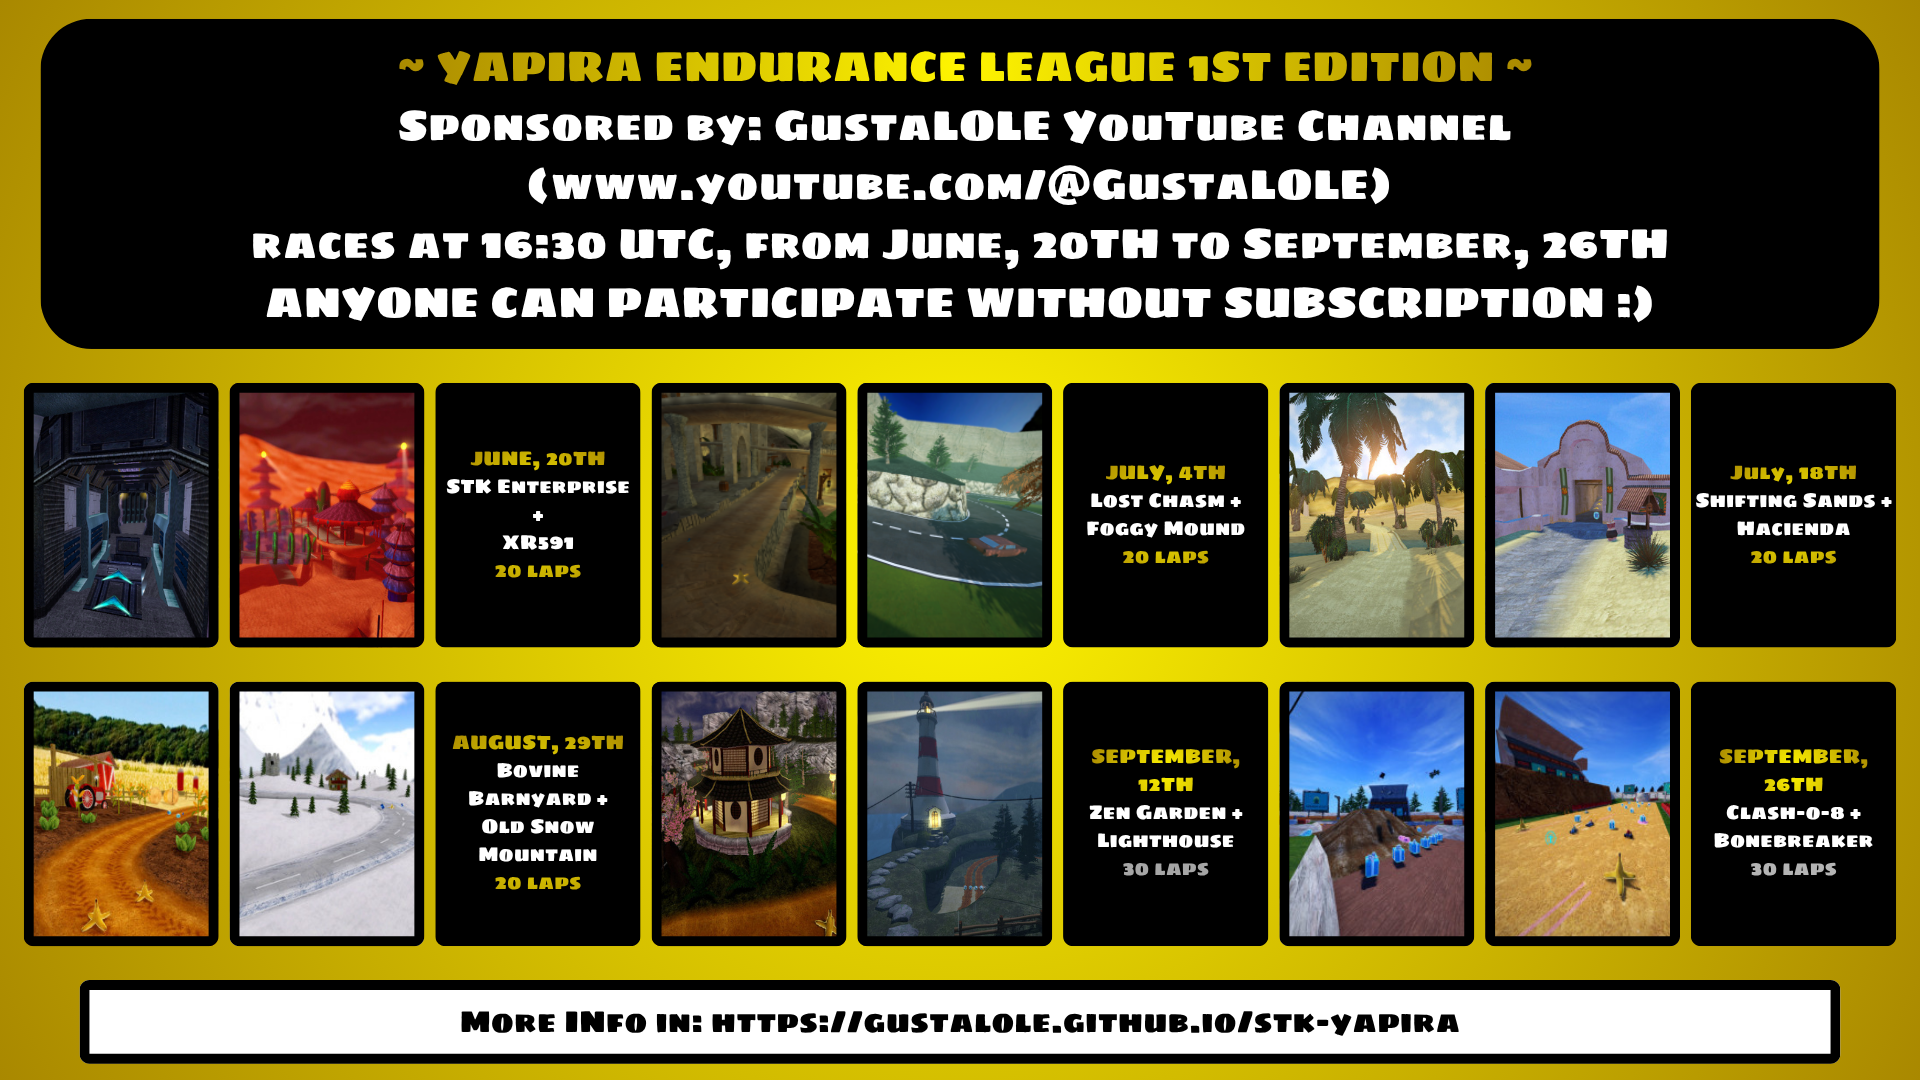
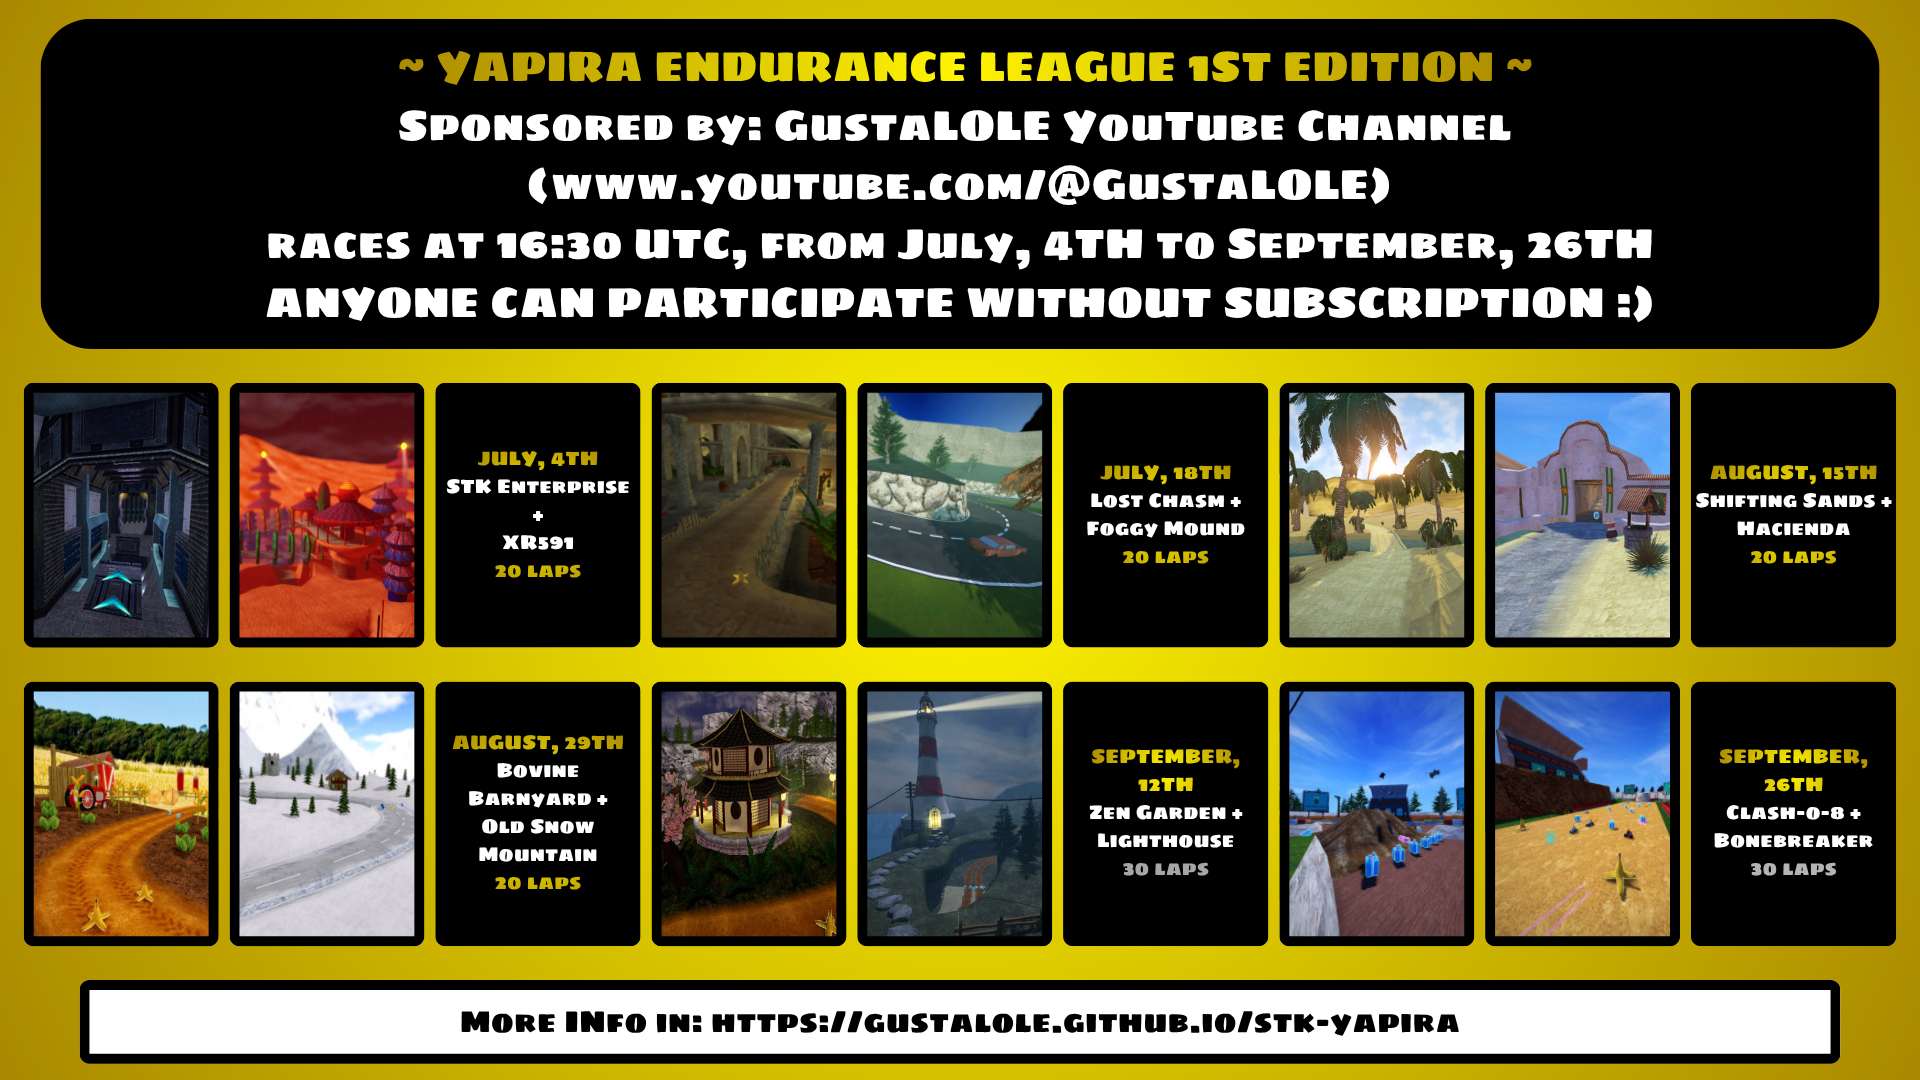
Some changes for Yapira Endurance League  - Rescheduled calendar (due my eyes treatment)  - Some changes in the webpage.
NOTE: The server is under maintenance, cuz I'm swiping the STK fork used for the server, and I'm very busy with my eyes treatment.
Thanks for your understanding :)

diff --git a/events/yapira-enduro.html b/events/yapira-enduro.html
@@ -52,9 +52,9 @@
                 <a href="https://online.supertuxkart.net/rankings.php" class="morelinks">STK Ranking</a>
                 <a href="https://www.youtube.com/@GustaLOLE" class="morelinks">My channel</a>
 			</div>
-			<h4>Yapira Endurance League</h4>
+			<h4>Yapira Endurance League 1st Edition</h4>
             <h5>WHAT IS IT?</h5>
-            <p>This event is a endurance championship with twelve previously selected tracks and two races in each step (each step will be one weekend, mainly on Saturdays), and a points ranking that is filled with your points that you got each race (the points system is further down the page), and ANYONE CAN PARTICIPATE ON THIS EVENT (without the need of subscription).</p>
+            <p>This event is a endurance championship with twelve previously selected tracks and two races in each round (each round will be one weekend on Saturdays), and a points ranking that is filled with your points that you get each race (the points system is further down the page), and ANYONE CAN PARTICIPATE ON THIS EVENT (without the need of subscription).</p>
             <h5>CALENDAR</h5>
             <a href="https://raw.githubusercontent.com/GustaLOLE/stk-yapira/refs/heads/yapira/img/calendar_yel.png">
                 <img src="https://raw.githubusercontent.com/GustaLOLE/stk-yapira/refs/heads/yapira/img/calendar_yel.png" alt="Yapira Endurance League !st Ed." style="width: 372px; height: 210px;">
